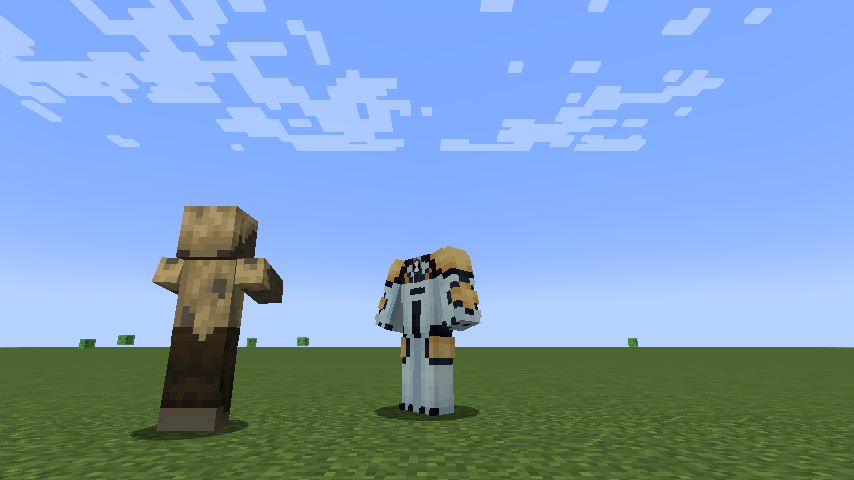
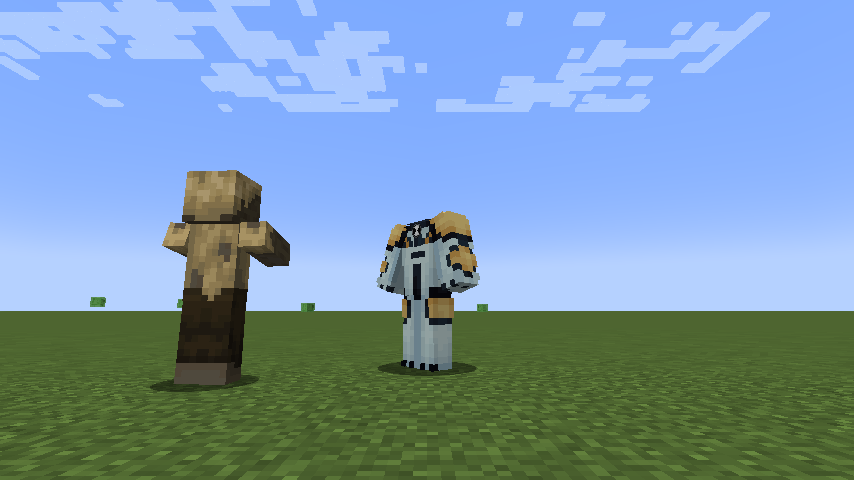
v0.17.2: Cannonbolt -- a 1.75-block ball, the view from his chest, the nametag just over his headless body, the skin's painted Omnitrix painted out and the badge 0.1 px higher (user: "make canonbolts ball form 1,75 blocks tall please" / "make the players view come out of their chest please since the
Standing body() is now a headless box (1.55 before the 1.3 scale, eye 1.25, NAME_TAG attachment 0.4 under the top); the uncurl room check uses it. Body sizes are cached constants so the body mixin does not refresh every tick.

diff --git a/scratchpad/ben10_v0171/gen_cannonbolt.js b/scratchpad/ben10_v0171/gen_cannonbolt.js
@@ -24,5 +24,19 @@ for (let y = 0; y < 16; y++) {
 		body[(y * 64 + x) * 4 + 3] = 0; // the head and the hat layer: gone from the standing model
 	}
 }
+// v0.17.2 (user: "remove the pixel omnitrix from the cannonbolt skin please"): the skin paints a small grey Omnitrix at the top of
+// his chest -- on the outer layer (21..26 x 36..37: the grey core and its dark ring) over a dark 2-pixel centre on the base layer
+// (23..24 x 21). The outer pixels go (the base shows through), the base centre takes the body colour beside it; the mod's own
+// badge sits there instead.
+for (let y = 36; y <= 37; y++) {
+	for (let x = 21; x <= 26; x++) {
+		body[(y * 64 + x) * 4 + 3] = 0;
+	}
+}
+for (const x of [23, 24]) {
+	for (let c = 0; c < 4; c++) {
+		body[(21 * 64 + x) * 4 + c] = body[(21 * 64 + 22) * 4 + c];
+	}
+}
 write('entity/omnitrix/cannonbolt.png', 64, 64, body);
 console.log('cannonbolt textures written');

diff --git a/src/main/java/com/projecthero/mod/omnitrix/alien/cannonbolt/CannonboltKit.java b/src/main/java/com/projecthero/mod/omnitrix/alien/cannonbolt/CannonboltKit.java
@@ -104,8 +104,14 @@ public final class CannonboltKit extends AlienKit {
 			BOOST_TICKS = 100, SPIN_TICKS = 40, UNSTOPPABLE_TICKS = 160, MOMENTUM_TICKS = 60;
 	/** Horizontal blocks / tick before rolling into something hurts it. */
 	public static final double RAM_SPEED = 0.3;
-	/** The ball's hitbox before the body's scale (1.3): a little under a block wide, so he rolls through one-block gaps. */
-	public static final float BALL_SIZE = 0.75f;
+	/** v0.17.2 (user: "make canonbolts ball form 1,75 blocks tall please"): the ball's hitbox before the body's scale (1.3). */
+	public static final float BALL_SIZE = 1.75f / 1.3f;
+	/**
+	 * v0.17.2 (user: "make the players view come out of their chest please since they dont have a head" / "make the nametag appear
+	 * above the body instead of above the chest please"): standing, the box ends at his headless body's top (24 px), the eyes sit in
+	 * his chest and the nametag just over his shoulders -- before the body's scale (1.3).
+	 */
+	public static final float BODY_HEIGHT = 1.55f, CHEST_EYE = 1.25f, CROUCH_HEIGHT = 1.3f, CROUCH_EYE = 1.0f, TAG_DROP = 0.4f;
 
 	private static final ResourceLocation ROLL_SPEED = PowerToggles.id("omnitrix_cannonbolt_roll");
 	private static final ResourceLocation ROLL_STEP = PowerToggles.id("omnitrix_cannonbolt_step");
@@ -271,7 +277,26 @@ public final class CannonboltKit extends AlienKit {
 	@Override
 	@Nullable
 	public EntityDimensions body(Player p, Pose pose) {
-		return flag(p, F_BALL) ? EntityDimensions.scalable(BALL_SIZE, BALL_SIZE).withEyeHeight(BALL_SIZE * 0.6f) : null;
+		if (flag(p, F_BALL)) {
+			return BALL_BODY;
+		}
+		return switch (pose) {
+			case STANDING -> STANDING_BODY;
+			case CROUCHING -> CROUCHING_BODY;
+			default -> null;
+		};
+	}
+
+	// built once: the body mixin refreshes the hitbox whenever the answer stops being equal to the last one
+	private static final EntityDimensions BALL_BODY = EntityDimensions.scalable(BALL_SIZE, BALL_SIZE).withEyeHeight(BALL_SIZE * 0.6f);
+	private static final EntityDimensions STANDING_BODY = headless(BODY_HEIGHT, CHEST_EYE);
+	private static final EntityDimensions CROUCHING_BODY = headless(CROUCH_HEIGHT, CROUCH_EYE);
+
+	/** A headless body {@code height} tall, the eyes in his chest, the nametag a little under the box's top (the renderer adds 0.5). */
+	private static EntityDimensions headless(float height, float eye) {
+		return EntityDimensions.scalable(0.6f, height).withEyeHeight(eye).withAttachments(net.minecraft.world.entity.EntityAttachments.builder()
+				.attach(net.minecraft.world.entity.EntityAttachment.NAME_TAG, 0f, height - TAG_DROP, 0f)
+				.attach(net.minecraft.world.entity.EntityAttachment.VEHICLE, Player.DEFAULT_VEHICLE_ATTACHMENT));
 	}
 
 	@Override
@@ -427,7 +452,7 @@ public final class CannonboltKit extends AlienKit {
 		ServerLevel l = level(p);
 		if (!on) {
 			float scale = p.getScale();
-			AABB stand = EntityDimensions.scalable(0.6f, 1.8f).scale(scale).makeBoundingBox(p.position());
+			AABB stand = EntityDimensions.scalable(0.6f, BODY_HEIGHT).scale(scale).makeBoundingBox(p.position());
 			if (!l.noCollision(p, stand.deflate(1.0e-3))) {
 				p.displayClientMessage(Component.translatable("message.projecthero.omnitrix.cannonbolt.no_room").withStyle(ChatFormatting.GRAY), true);
 				cooldown(p, UNCURL, 0);

diff --git a/src/gametest/java/com/projecthero/mod/gametest/OmnitrixCannonboltGameTests.java b/src/gametest/java/com/projecthero/mod/gametest/OmnitrixCannonboltGameTests.java
@@ -158,8 +158,8 @@ public class OmnitrixCannonboltGameTests implements FabricGameTest {
 		tap(p, AbilitySlot.SLOT_5, false);
 		helper.assertTrue(CannonboltKit.ball(p), "V curls him up");
 		p.refreshDimensions();
-		helper.assertTrue(p.getBbHeight() < 1.2f && p.getBbWidth() < 1.0f, "a one-block ball: " + p.getBbWidth() + " x " + p.getBbHeight());
-		helper.assertTrue(p.getBbWidth() != standingWidth || p.getBbHeight() < 2f, "the hitbox changed");
+		helper.assertTrue(Math.abs(p.getBbHeight() - 1.75f) < 0.02f && Math.abs(p.getBbWidth() - 1.75f) < 0.02f, "a 1.75-block ball (v0.17.2 user): " + p.getBbWidth() + " x " + p.getBbHeight());
+		helper.assertTrue(p.getEyeHeight() < 1.2f, "the ball's eyes sit low: " + p.getEyeHeight());
 		helper.assertTrue(kit.liveMoveOn(p, AbilitySlot.SLOT_1, false, false).id().equals(CannonboltKit.CHARGE), "ball R is the Cannonball Charge");
 		helper.assertTrue(kit.liveMoveOn(p, AbilitySlot.SLOT_1, true, false).id().equals(CannonboltKit.RICOCHET), "ball Shift+R is the Pinball Ricochet");
 		helper.assertTrue(kit.liveMoveOn(p, AbilitySlot.SLOT_2, false, false).id().equals(CannonboltKit.BOUNCE), "ball G is the Big Bounce");
@@ -171,7 +171,8 @@ public class OmnitrixCannonboltGameTests implements FabricGameTest {
 			tap(p, AbilitySlot.SLOT_5, false);
 			helper.assertFalse(CannonboltKit.ball(p), "V again uncurls him");
 			p.refreshDimensions();
-			helper.assertTrue(p.getBbHeight() > 2f, "standing again: " + p.getBbHeight());
+			helper.assertTrue(Math.abs(p.getBbHeight() - 1.55f * 1.3f) < 0.05f, "standing again, a headless body: " + p.getBbHeight());
+			helper.assertTrue(Math.abs(p.getEyeHeight() - 1.25f * 1.3f) < 0.05f && p.getEyeHeight() < p.getBbHeight() - 0.3f, "the view comes out of his chest: " + p.getEyeHeight());
 			helper.assertFalse(kit.pawsOnly(p), "hands back");
 			helper.succeed();
 		});

diff --git a/src/client/java/com/projecthero/mod/client/omnitrix/alien/CannonboltClient.java b/src/client/java/com/projecthero/mod/client/omnitrix/alien/CannonboltClient.java
@@ -73,7 +73,7 @@ public final class CannonboltClient implements AlienClientKit {
 	@Override
 	public float[] badge() {
 		// the small grey disc the skin paints at the top of his chest, between the shoulder plates
-		return new float[] { 0f, 1.4f, -2.1f, 2.6f };
+		return new float[] { 0f, 1.3f, -2.1f, 2.6f }; // v0.17.2 (user: "raise our badge by like 0.1 pixel please")
 	}
 
 	@Override
@@ -143,7 +143,7 @@ public final class CannonboltClient implements AlienClientKit {
 	public void renderBody(AbstractClientPlayer p, float yaw, float partial, PoseStack pose, MultiBufferSource buffers, int light) {
 		boolean ball = (Omnitrix.state(p).kitFlags & CannonboltKit.F_BALL) != 0;
 		// a curl mid-move (standing hitbox) is drawn the size of his body's width; Ball Mode fills the ball hitbox
-		float radius = ball ? p.getBbWidth() * 0.52f : Math.max(p.getBbWidth() * 0.85f, 0.62f);
+		float radius = ball ? p.getBbHeight() * 0.5f : Math.max(p.getBbWidth() * 0.85f, 0.62f); // v0.17.2: Ball Mode is 1.75 blocks tall
 		Roll r = ROLLS.computeIfAbsent(p, k -> new Roll());
 		double x = Mth.lerp(partial, p.xo, p.getX()), z = Mth.lerp(partial, p.zo, p.getZ());
 		float age = p.tickCount + partial;

diff --git a/docs/OMNITRIX_REVAMP_CANNONBOLT.md b/docs/OMNITRIX_REVAMP_CANNONBOLT.md
@@ -59,7 +59,8 @@ the user: "The body, arms and legs should be used for the alien model and the he
 | Health | 40 | 40 |
 | Armour | 16 + 3 toughness | 16 + 3, and half damage on top |
 | Speed | 0.8 | x2.0, rising to x3.2 as Momentum builds |
-| Hitbox | 0.78 x 2.34 | 0.98 ball (fits one-block gaps) |
+| Hitbox | 0.78 x 2.0 (headless: ends at his shoulders) | a 1.75-block ball |
+| View | from his chest (eye 1.63) | low (eye 1.05) |
 | Hands | fists +9 | none (no punching, no items) |
 
 ## Keys
@@ -86,6 +87,19 @@ V switches between the two modes. Every other key changes with the mode (`liveMo
 - **Ram** (ball): rolling fast (0.3+ blocks/tick) into a creature hits it for 8 to 20, scaled by speed, and knocks it flying.
   Each creature can be hit once per 0.5 s.
 - **Wall Roll** (ball): pressed into a wall, he rolls straight up it.
+
+## Size, view and nametag
+
+- Ball (user: "make canonbolts ball form 1,75 blocks tall please"): the hitbox and the drawn ball are 1.75 x 1.75 blocks, so he no
+  longer fits one-block gaps rolled up.
+- View (user: "make the players view come out of their chest please since they dont have a head"): standing, the eye is at his
+  chest (1.25 before the 1.3 scale, 1.0 crouching).
+- Nametag (user: "make the nametag appear above the body instead of above the chest please"): the standing box ends at the top of
+  his headless body (1.55 before scale), and the NAME_TAG attachment sits 0.4 under it. Vanilla adds 0.5, so the tag hangs just
+  over his shoulders (about 2.0 blocks). You never see your own tag on your own client; other players do.
+- Badge (user: "remove the pixel omnitrix from the cannonbolt skin please and raise our badge by like 0.1 pixel please"): the
+  skin's painted symbol (outer layer 21..26 x 36..37, base 23..24 x 21) is painted out in gen_cannonbolt.js. The badge sits at
+  y 1.3 px (was 1.4).
 
 ## Weaknesses
 
